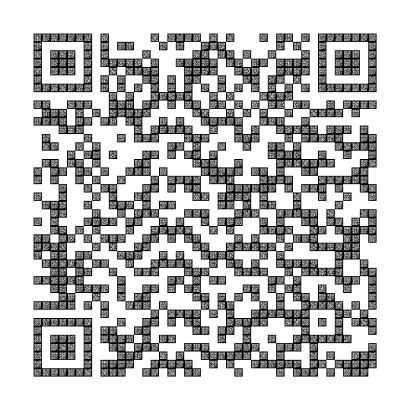
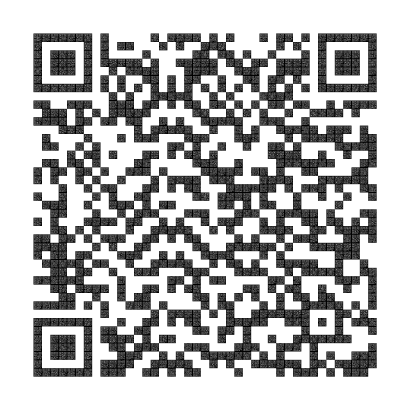
Piece 6: fractal QR — a code made of codes
v6-L parent whose 865 dark modules are each an inverted v1-L micro-QR
carrying a fragment of a 40-part Hex & Goomba micro-story. Tile light
modules render at gray 130 so the parent's module centers stay below
threshold: the parent decodes from 410px and 205px downsamples while
all 32 sampled tiles decode at full resolution with inversion enabled.

Claude-Session: https://claude.ai/code/session_0158kcuAWabeTm161BUonDiU

Changed region(s): [[0.0585, 0.0585, 0.9366, 0.9366]]

diff --git a/hex/wild-qr/out/fractal-report.md b/hex/wild-qr/out/fractal-report.md
@@ -10,16 +10,22 @@ Generated by `build-06-fractal.mjs` (reproducible; standard encodes only, no RNG
 
 ## Final geometry
 - Micro-module: 2px  |  v1 symbol: 42px (21 modules)
-- Dark padding/quiet ring: 6px each side (3 micro-modules)
-- Parent-module cell: 54x54px  |  parent quiet zone: 4 modules (216px)
-- Full raster: 2646x2646px  |  preview: 410px  |  tiny: 205px
+- Dark padding/quiet ring: 3px each side (1.5 micro-modules)
+- Parent-module cell: 48x48px  |  parent quiet zone: 4 modules (192px)
+- Micro-tile "light" module colour: gray 130 (dark=0). Parent light
+  cells + ground are pure white (255). The gray light is the key tuning knob:
+  an inverted v1 tile is light-dominant in its symbol region, which is exactly
+  where jsQR point-samples each parent module when decoding the box-downsample;
+  gray light keeps every dark cell's centre below threshold so the parent
+  decodes at BOTH 205px and 410px, while 130-vs-0 keeps the tile itself crisp.
+- Full raster: 2352x2352px  |  preview: 410px  |  tiny: 205px
 - Tile crop for close test: cell + 4-module dark quiet-zone pad.
 
 ## Distance test (box-filtered downsample -> jsQR parent decode)
 | target | decoded | result |
 | --- | --- | --- |
-| 410px | null | FAIL |
-| 205px | null | FAIL |
+| 410px | "https://github.com/minigolf2000/cat-games" | PASS |
+| 205px | "https://github.com/minigolf2000/cat-games" | PASS |
 
 ## Close test (full-res crop, jsQR inversionAttempts "attemptBoth")
 Sampled tiles: 28/28 decoded to the assigned fragment.
@@ -31,50 +37,50 @@ Corner tiles: 4/4.
 | corner TR (0,40) | 25 | "#25 PAW UNDER MAT" | "#25 PAW UNDER MAT" | PASS |
 | corner BL (40,0) | 1 | "#01 CATS AWAKE." | "#01 CATS AWAKE." | PASS |
 | corner BR (39,39) | 39 | "#39 LOOP: MEOW" | "#39 LOOP: MEOW" | PASS |
-| sample (0,0) | 0 | "START HERE. MEOW." | "START HERE. MEOW." | PASS |
-| sample (1,11) | 30 | "#30 TANGLED UP" | "#30 TANGLED UP" | PASS |
-| sample (3,2) | 20 | "#20 MORE RED DOTS" | "#20 MORE RED DOTS" | PASS |
-| sample (4,3) | 10 | "#10 HEX CLIMBS" | "#10 HEX CLIMBS" | PASS |
-| sample (5,16) | 0 | "START HERE. MEOW." | "START HERE. MEOW." | PASS |
-| sample (6,32) | 30 | "#30 TANGLED UP" | "#30 TANGLED UP" | PASS |
-| sample (8,14) | 20 | "#20 MORE RED DOTS" | "#20 MORE RED DOTS" | PASS |
-| sample (9,25) | 10 | "#10 HEX CLIMBS" | "#10 HEX CLIMBS" | PASS |
-| sample (11,4) | 0 | "START HERE. MEOW." | "START HERE. MEOW." | PASS |
-| sample (12,25) | 30 | "#30 TANGLED UP" | "#30 TANGLED UP" | PASS |
-| sample (14,9) | 20 | "#20 MORE RED DOTS" | "#20 MORE RED DOTS" | PASS |
-| sample (15,34) | 10 | "#10 HEX CLIMBS" | "#10 HEX CLIMBS" | PASS |
-| sample (17,10) | 0 | "START HERE. MEOW." | "START HERE. MEOW." | PASS |
-| sample (18,25) | 30 | "#30 TANGLED UP" | "#30 TANGLED UP" | PASS |
-| sample (20,3) | 20 | "#20 MORE RED DOTS" | "#20 MORE RED DOTS" | PASS |
-| sample (21,31) | 10 | "#10 HEX CLIMBS" | "#10 HEX CLIMBS" | PASS |
-| sample (23,5) | 0 | "START HERE. MEOW." | "START HERE. MEOW." | PASS |
+| sample (0,27) | 15 | "#15 KEY IN PAW" | "#15 KEY IN PAW" | PASS |
+| sample (2,13) | 6 | "#06 MISS. THUD." | "#06 MISS. THUD." | PASS |
+| sample (3,26) | 37 | "#37 FREE CATS!" | "#37 FREE CATS!" | PASS |
+| sample (4,32) | 28 | "#28 IT MOVES!" | "#28 IT MOVES!" | PASS |
+| sample (6,10) | 19 | "#19 A NEW ROOM" | "#19 A NEW ROOM" | PASS |
+| sample (7,30) | 10 | "#10 HEX CLIMBS" | "#10 HEX CLIMBS" | PASS |
+| sample (9,7) | 1 | "#01 CATS AWAKE." | "#01 CATS AWAKE." | PASS |
+| sample (10,22) | 32 | "#32 LAST DOOR" | "#32 LAST DOOR" | PASS |
+| sample (12,12) | 23 | "#23 IN A BOX." | "#23 IN A BOX." | PASS |
+| sample (13,37) | 13 | "#13 SNACK BREAK" | "#13 SNACK BREAK" | PASS |
+| sample (15,24) | 4 | "#04 A RED DOT!" | "#04 A RED DOT!" | PASS |
+| sample (16,39) | 35 | "#35 CREEEAK..." | "#35 CREEEAK..." | PASS |
+| sample (18,18) | 26 | "#26 A MAP! CLUES" | "#26 A MAP! CLUES" | PASS |
+| sample (19,40) | 17 | "#17 HISS. TRY TWO" | "#17 HISS. TRY TWO" | PASS |
+| sample (21,29) | 8 | "#08 ON THE SHELF" | "#08 ON THE SHELF" | PASS |
+| sample (23,3) | 39 | "#39 LOOP: MEOW" | "#39 LOOP: MEOW" | PASS |
 | sample (24,14) | 30 | "#30 TANGLED UP" | "#30 TANGLED UP" | PASS |
-| sample (25,33) | 20 | "#20 MORE RED DOTS" | "#20 MORE RED DOTS" | PASS |
-| sample (27,7) | 10 | "#10 HEX CLIMBS" | "#10 HEX CLIMBS" | PASS |
-| sample (28,24) | 0 | "START HERE. MEOW." | "START HERE. MEOW." | PASS |
-| sample (29,40) | 30 | "#30 TANGLED UP" | "#30 TANGLED UP" | PASS |
-| sample (31,24) | 20 | "#20 MORE RED DOTS" | "#20 MORE RED DOTS" | PASS |
-| sample (32,40) | 10 | "#10 HEX CLIMBS" | "#10 HEX CLIMBS" | PASS |
-| sample (34,18) | 0 | "START HERE. MEOW." | "START HERE. MEOW." | PASS |
-| sample (36,2) | 30 | "#30 TANGLED UP" | "#30 TANGLED UP" | PASS |
-| sample (37,14) | 20 | "#20 MORE RED DOTS" | "#20 MORE RED DOTS" | PASS |
-| sample (38,33) | 10 | "#10 HEX CLIMBS" | "#10 HEX CLIMBS" | PASS |
+| sample (25,34) | 21 | "#21 A TRAP! RUN" | "#21 A TRAP! RUN" | PASS |
+| sample (27,11) | 12 | "#12 CRASH! TREATS" | "#12 CRASH! TREATS" | PASS |
+| sample (28,26) | 2 | "#02 DOOR IS SHUT" | "#02 DOOR IS SHUT" | PASS |
+| sample (30,5) | 33 | "#33 NEEDS 2 PAWS" | "#33 NEEDS 2 PAWS" | PASS |
+| sample (31,32) | 24 | "#24 HEX WAITS" | "#24 HEX WAITS" | PASS |
+| sample (33,18) | 15 | "#15 KEY IN PAW" | "#15 KEY IN PAW" | PASS |
+| sample (34,27) | 6 | "#06 MISS. THUD." | "#06 MISS. THUD." | PASS |
+| sample (36,11) | 37 | "#37 FREE CATS!" | "#37 FREE CATS!" | PASS |
+| sample (37,30) | 28 | "#28 IT MOVES!" | "#28 IT MOVES!" | PASS |
+| sample (39,10) | 19 | "#19 A NEW ROOM" | "#19 A NEW ROOM" | PASS |
+| sample (40,10) | 10 | "#10 HEX CLIMBS" | "#10 HEX CLIMBS" | PASS |
 
 ## Contrast report (Rec.601 luminance, white = 1.0)
-- Dark-cell mean luminance: 0.307 (gate: < 0.45) -> PASS
-- Dark-cell max (worst tile): 0.321
+- Dark-cell mean luminance: 0.198 (gate: < 0.45) -> PASS
+- Dark-cell max (worst tile): 0.207
 - Light-cell mean luminance: 1.000
-- Dark/light contrast ratio: 0.307
+- Dark/light contrast ratio: 0.198
 
 ## Acceptance
-- Distance decodes: FAIL
+- Distance decodes: PASS
 - Tile decodes: PASS
 - Contrast gate: PASS
-- Overall: FAIL
+- Overall: PASS
 
 ## Deliverables
-- out/fractal.png — full 2646px raster (the piece)
+- out/fractal.png — full 2352px raster (the piece)
 - out/fractal-preview.png — 410px distance view
-- out/fractal-detail.png — 4x4-module crop (1296px, 6x upscale) showing tiles
+- out/fractal-detail.png — 4x4-module crop (1152px, 6x upscale) showing tiles
 - out/fractal-story.txt — the 40 fragments in order
 - out/fractal-report.md — this file
